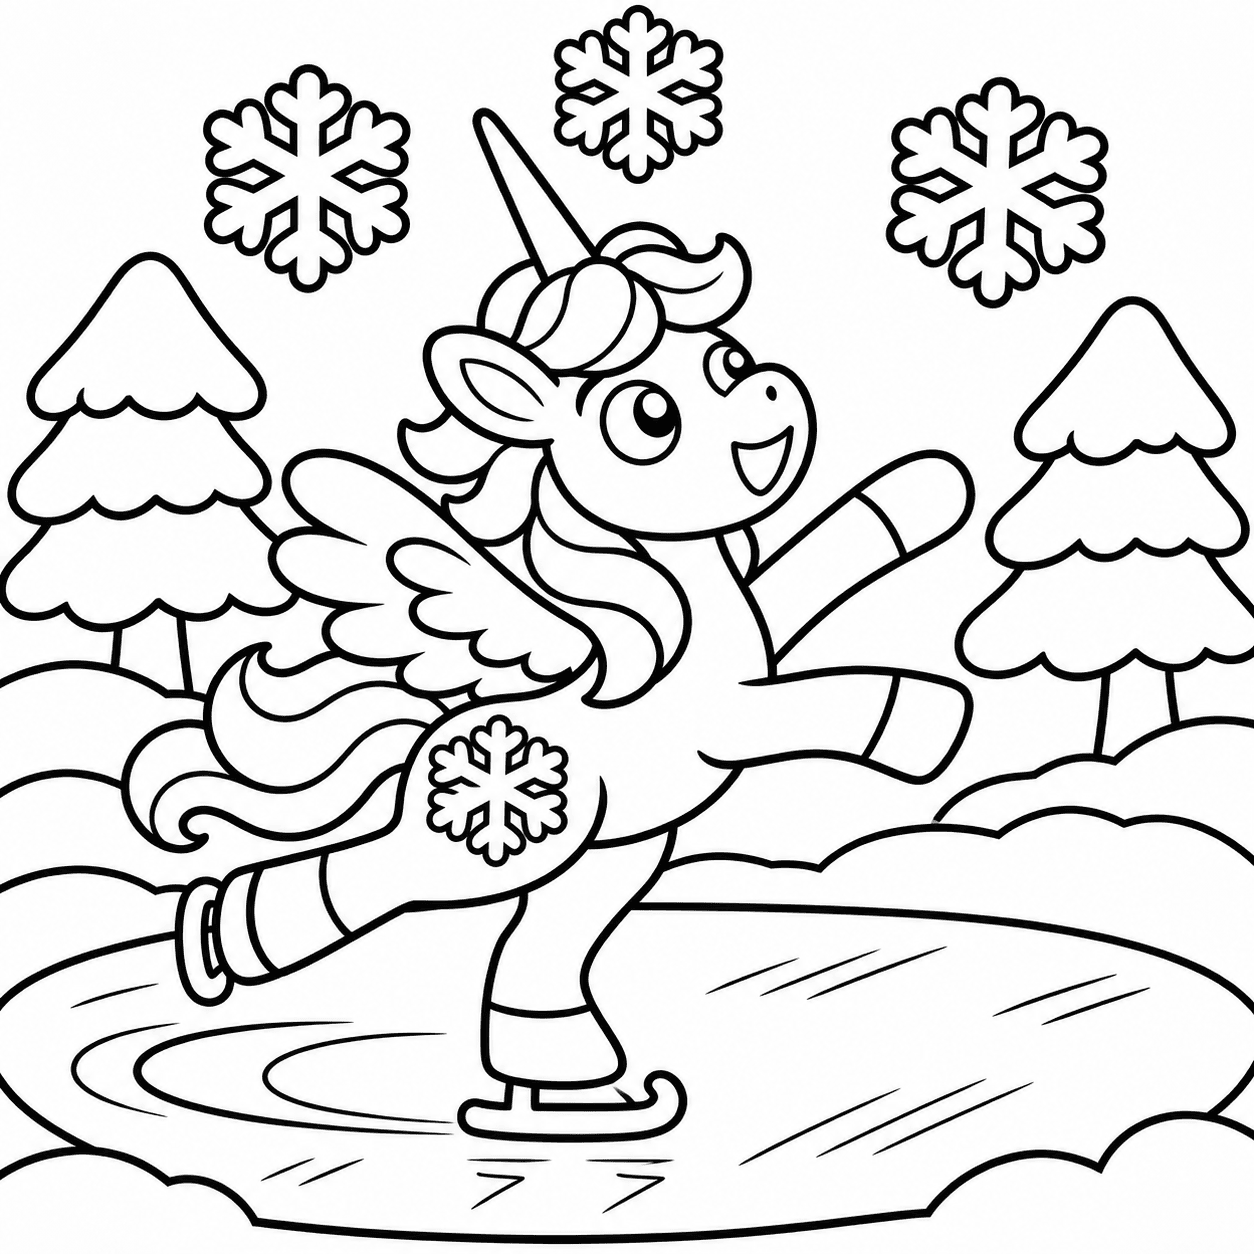
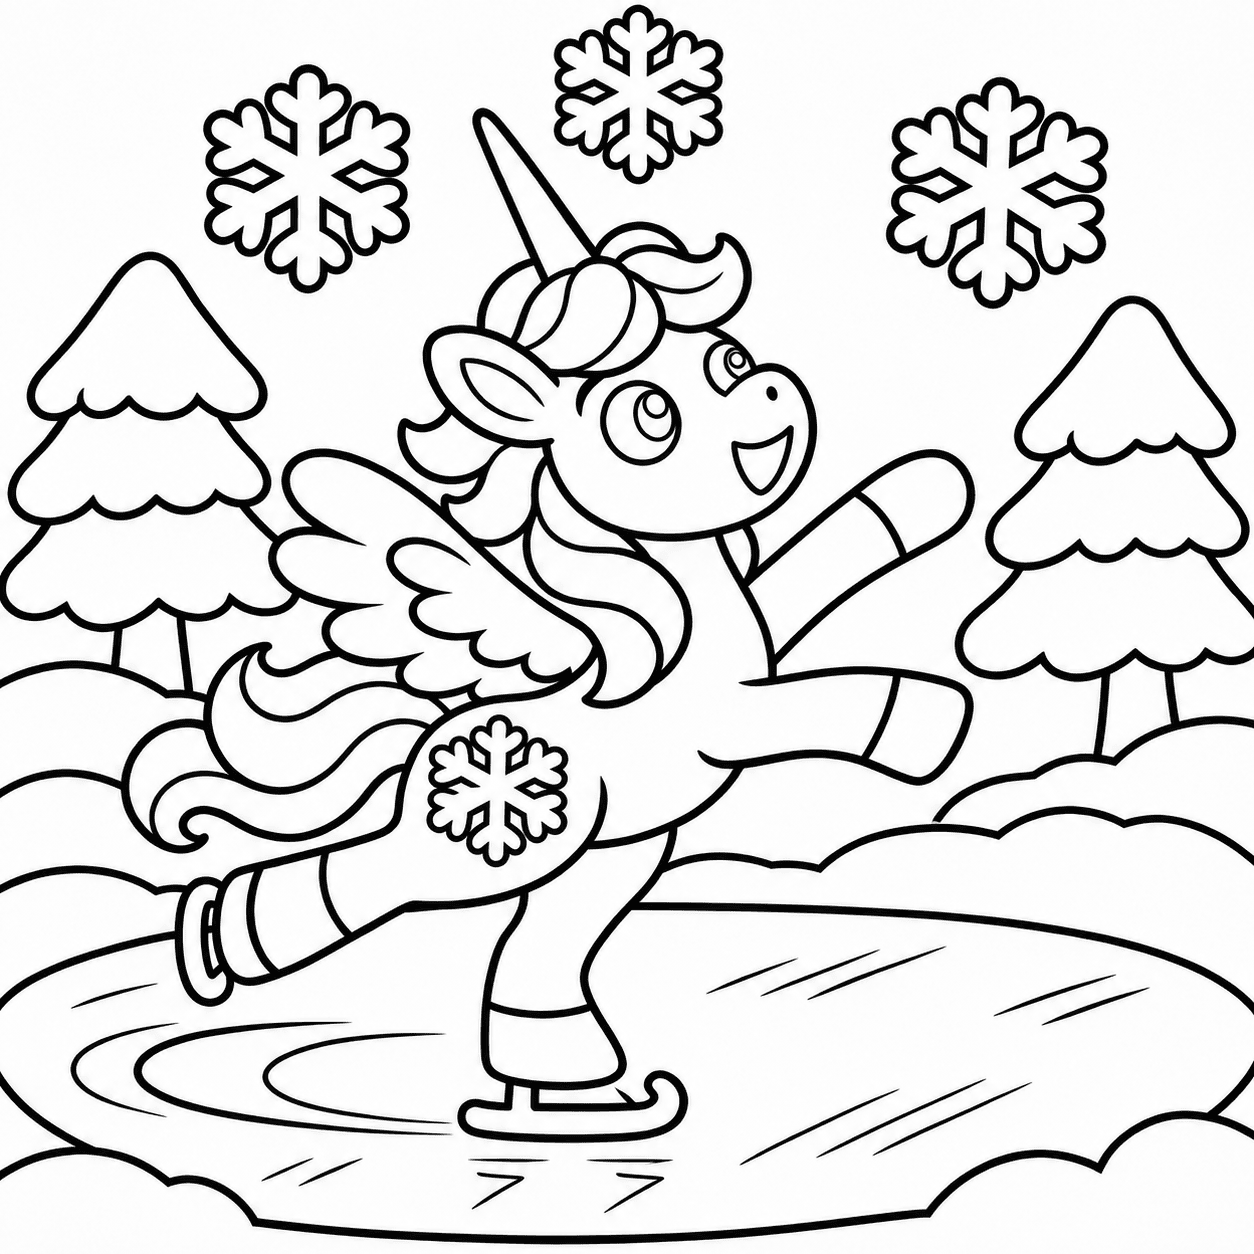
Floco no gelo e Sol ao amanhecer redesenhados, gabaritos refeitos (v0.56.1)

diff --git a/src/game/pinturaNumeros.js b/src/game/pinturaNumeros.js
@@ -101,18 +101,18 @@ export const GABARITOS = {
   },
   'sol-amanhecer': {
     ceu: [0],
-    rosa: [19, 52, 56, 58, 64],
-    vermelho: [18, 22, 24, 28, 43],
-    laranja: [1, 5, 6, 9, 11, 20, 23, 29, 32, 34, 36, 41],
-    dourado: [27, 37, 40, 46, 48, 50],
-    amarelo: [3, 7, 8, 12, 13, 17, 21, 26, 31, 33, 35, 47, 60, 61, 62],
-    creme: [10, 30, 38, 39, 42],
-    verdeClaro: [49, 72, 73, 74],
-    verde: [44, 45, 66, 67, 68, 69, 70, 71],
-    azul: [51, 54, 55, 63],
-    roxo: [25, 53, 57, 59, 65],
-    marrom: [15, 16],
-    branco: [2, 4, 14],
+    rosa: [19, 55, 59, 61, 68],
+    vermelho: [6, 18, 24, 27, 29, 38, 45, 54, 57, 58, 66],
+    laranja: [1, 5, 9, 11, 17, 23, 31, 34, 36, 40, 44, 47, 50, 51, 52],
+    amarelo: [3, 7, 8, 12, 13, 20, 21, 22, 26, 33, 35, 37, 63, 64, 65],
+    creme: [10, 32, 43],
+    verdeEscuro: [28, 39],
+    verde: [30, 41, 42, 46, 49, 69, 70, 71, 72, 73, 74],
+    verdeClaro: [48],
+    verdeMusgo: [53, 75, 76, 77, 78],
+    roxo: [25, 56, 60, 62, 67],
+    marrom: [16],
+    branco: [2, 4, 14, 15],
   },
   'sol-pomar': {
     ceu: [0, 60],
@@ -340,19 +340,19 @@ export const GABARITOS = {
     branco: [1, 2, 3, 23, 27, 51, 67, 68, 80, 85, 88, 95],
   },
   'floco-gelo': {
-    ceu: [0, 2, 3, 6, 7, 8, 9, 11, 12, 13, 14, 15, 16, 17, 18, 19, 20, 49, 50, 55],
-    azulClaro: [10, 44, 65, 74],
-    lilasClaro: [21, 27, 38, 53, 56, 60, 72],
-    lilas: [22, 25, 45, 62, 71, 76],
-    verde: [23, 37, 43],
-    azul: [24, 33, 35, 40, 46, 52, 57],
-    azulEscuro: [26, 41, 61],
-    verdeClaro: [28, 34, 48],
-    gelo: [29, 30, 31, 42, 47, 58, 63, 64, 66, 67, 69, 70],
-    rosa: [36],
-    marrom: [51, 54],
-    cinza: [73, 75, 78],
-    branco: [1, 4, 5, 32, 39, 59, 68, 77, 79, 80],
+    ceu: [0, 2, 3, 6, 7, 8, 9, 11, 12, 13, 14, 15, 16, 17, 18, 19, 20, 51, 52, 57],
+    azulClaro: [10, 46, 66, 76],
+    lilasClaro: [21, 27, 40, 55, 74],
+    lilas: [22, 25, 47, 63, 73, 78],
+    verde: [23, 39, 45],
+    azul: [24, 32, 35, 37, 42, 48, 54, 59],
+    azulEscuro: [26, 43, 62],
+    verdeClaro: [28, 36, 50],
+    gelo: [29, 44, 49, 60, 64, 65, 67, 68, 69, 71, 72],
+    rosa: [38],
+    marrom: [53, 56],
+    cinza: [75, 77, 80],
+    branco: [1, 4, 5, 30, 31, 33, 34, 41, 58, 61, 70, 79, 81, 82],
   },
   'coco-coqueiro': {
     ceu: [0, 25],

diff --git a/sw.js b/sw.js
@@ -5,7 +5,7 @@
 //
 // O nome do cache carrega a versão do jogo: ao subi-la (com `npm run bump`),
 // o cache velho é apagado sozinho no aparelho de quem já jogou.
-const VERSION = 'unicornrush-v0.56.0';
+const VERSION = 'unicornrush-v0.56.1';
 
 const SHELL = [
   './',

diff --git a/src/game/version.js b/src/game/version.js
@@ -7,4 +7,4 @@
 // Para subir a versão use `npm run bump` — ele mexe nos três lugares de uma
 // vez (aqui, no `package.json` e no `sw.js`), que é o que impede de um deles
 // ficar para trás.
-export const VERSION = '0.56.0';
+export const VERSION = '0.56.1';
